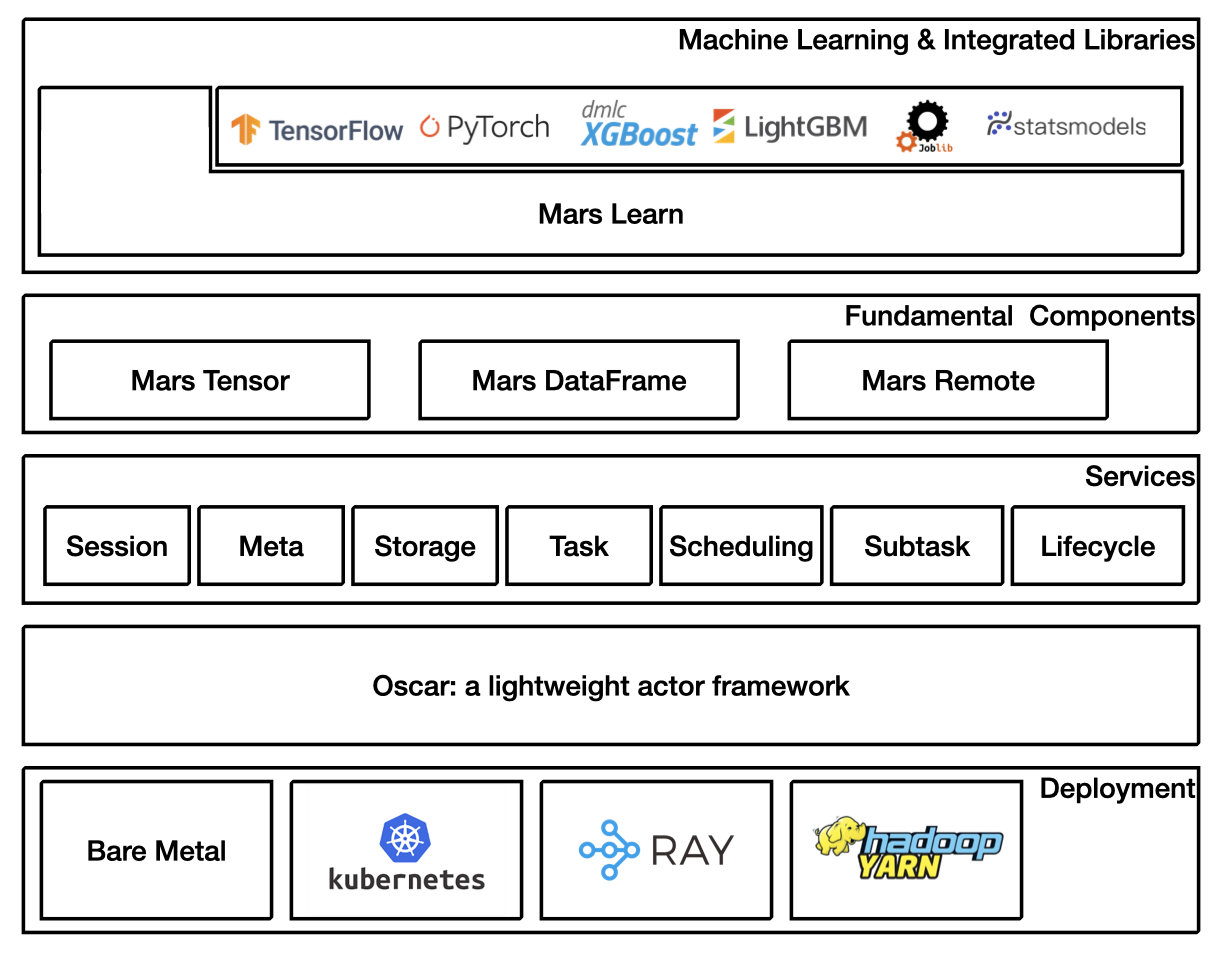
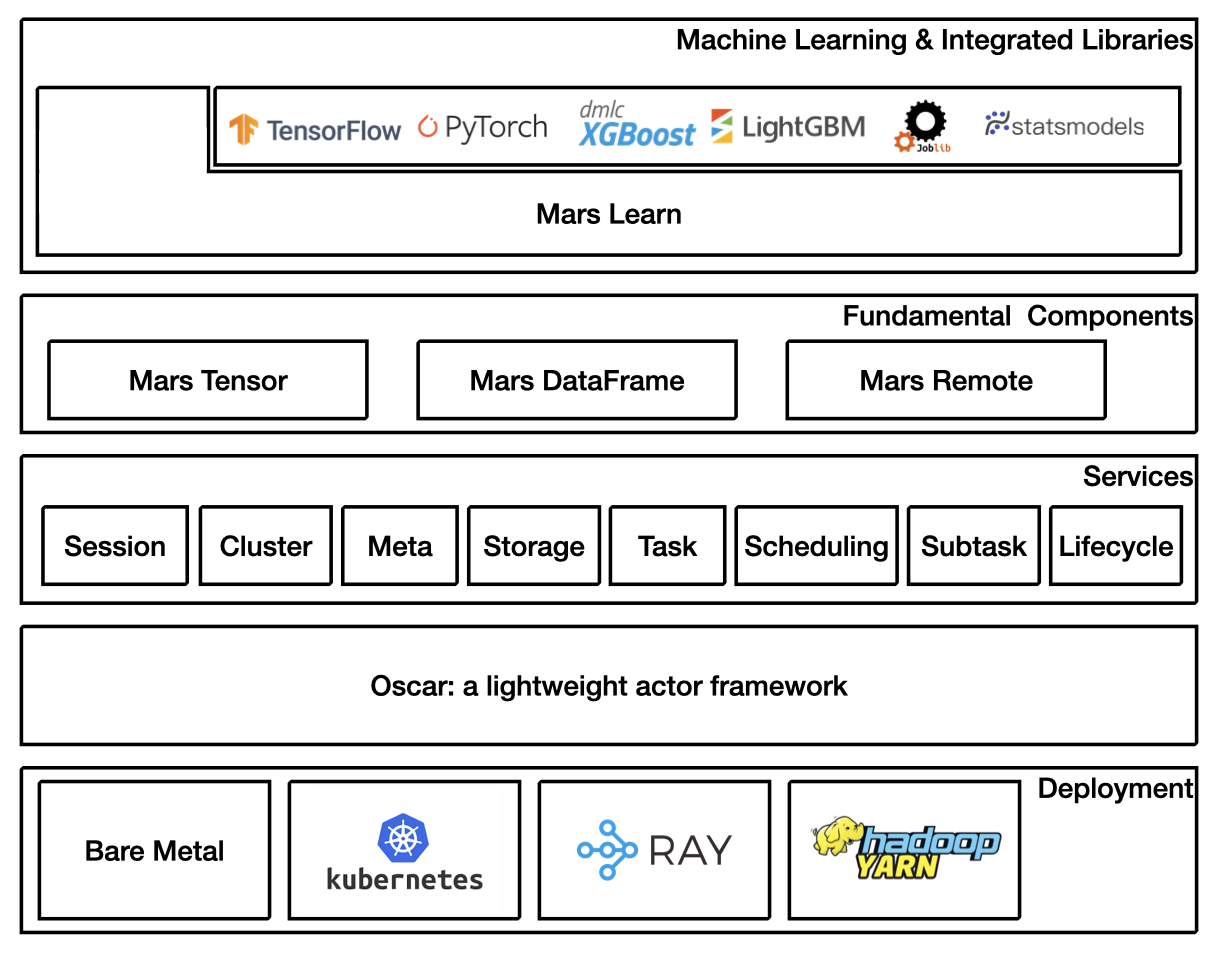
Add more docs

Changed region(s): [[0.0, 0.0304, 0.9984, 1.0], [0.2808, 0.6999, 0.7176, 0.7303]]

diff --git a/docs/source/development/overview.rst b/docs/source/development/overview.rst
@@ -1,0 +1,67 @@
+.. _dev_overview:
+
+Architecture
+============
+
+Main architecture is shown as below.
+
+.. image:: ../images/dev-intro.png
+
+This development guide will mainly focus on the part in the ret dot lines.
+
+Mars implements a lightweight actor framework called oscar,
+on top of it, the distributed execution layer is decoupled into
+a few services includes:
+
+1. Session service. Manage sessions. Each session is isolated,
+   the data in one session can not be seen from another session.
+2. Cluster service. Monitor entire cluster.
+3. Meta service. Store meta of Mars objects, like shape of tensor etc.
+4. Storage service. Data can be put and get from storage service,
+   functionalities like data spilling and data transfer between workers
+   are integrated in storage service as well.
+5. Task service. When user called ``.execute()`` method, a task will be
+   submitted to this service. Task service will try to tile a high-level
+   coarse-grained computational graph into a low-level fine-grained graph
+   in which each node in the graph is a subtask. This subtask graph will
+   be handed over to scheduling service.
+6. Scheduling service. Accept a subtask graph, and schedule the subtasks
+   to workers for execution according to many highly optimized scheduling strategies.
+7. Subtask service. Accept a subtask, execute them, then put data into storage,
+   record meta in meta service, report back result to task service.
+8. Lifecycle service. Each Mars objects as well as chunk owns a reference count
+   in lifecycle service, when reference count reaches 0, notify storage service to
+   remove data, and tell meta service to remove meta.
+
+Code Structure
+==============
+
+* core: internal data structures, like tileables, chunks, operands, graphs.
+* lib: libraries, e.g. filesystem, sparse.
+* oscar: actor framework.
+* deploy/oscar: local deploy.
+* deploy/kubernetes: deploy on Kubernetes.
+* deploy/yarn: deploy on yarn.
+* services: all services.
+* optimization: high-level and low-level optimization, e.g. fusion.
+* serialization: serialization based on pickle5 protocol.
+* storage: local storage backends, e.g. plasma, shared_memory, ray.
+
+Tour of Task
+============
+
+.. image:: ../images/tour-of-task.gif
+
+A task is consist of the following steps:
+
+1. When `.execute()` called on client side, a task that has a tileable graph
+   will be submitted to task service.
+2. Task service will optimize tileable graph first, a few rules will be applied,
+   e.g. column pruning. Tileable graph will then be tiled into chunk graph,
+   chunk graph will be optimized as well, e.g. fusion. Each node on the fused
+   chunk graph will be organized as a subtask, the subtask graph will be handed
+   over to scheduling service.
+3. Scheduling service schedules the subtasks according to a few highly optimized,
+   e.g. depth-first, locality-aware, scheduling policies. Subtasks will be submitted
+   to subtask service on workers for execution.
+4. A task will be finished until all subtasks have been accomplished.

diff --git a/docs/source/development/oscar/usage.rst b/docs/source/development/oscar/usage.rst
@@ -1,0 +1,88 @@
+.. _oscar_usage:
+
+Oscar APIs
+==========
+
+Actor Definition
+----------------
+
+.. code-block:: python
+
+    import mars.oscar as mo
+
+    # stateful actor, for stateless actor, inherit from mo.StatelessActor
+    class MyActor(mo.Actor):
+        def __init__(self, *args, **kwargs):
+            pass
+
+        async def __post_create__(self):
+            # called after created
+            pass
+
+        async def __pre_destroy__(self):
+            # called before destroy
+            pass
+
+        def method_a(self, arg_1, arg_2, **kw_1):  # user-defined function
+            pass
+
+        async def method_b(self, arg_1, arg_2, **kw_1)  # user-defined async function
+            pass
+
+
+Creating Actors
+---------------
+
+.. code-block:: python
+
+    import mars.oscar as mo
+
+    actor_ref = await mo.create_actor(
+        MyActor, 1, 2, a=1, b=2
+        address='<ip>:<port>', uid='UniqueActorName')
+
+
+Destroying Actors
+-----------------
+
+.. code-block:: python
+
+    import mars.oscar as mo
+
+    await mo.destroy_actor(actor_ref)
+    # or
+    await actor_ref.destroy()
+
+
+Checking Existence of Actors
+----------------------------
+
+.. code-block:: python
+
+    import mars.oscar as mo
+
+    await mo.has_actor(mo.ActorRef(worker_addr, actor_uid))
+
+
+Getting Actor Reference
+-----------------------
+
+.. code-block:: python
+
+    import mars.oscar as mo
+
+    actor_ref = await mo.actor_ref(worker_addr, actor_id)
+
+
+Calling Actor Method
+--------------------
+
+.. code-block:: python
+
+    # send
+    await actor_ref.method_a.send(1, 2, a=1, b=2)
+    # equivalent to actor_ref.method_a.send
+    await actor_ref.method_a(1, 2, a=1, b=2)
+    # tell
+    await actor_ref.method_a.tell(1, 2, a=1, b=2)
+

diff --git a/docs/source/development/oscar/internals.rst b/docs/source/development/oscar/internals.rst
@@ -1,0 +1,33 @@
+.. _oscar_internals:
+
+Oscar Internal
+==============
+
+Oscar supports multiple backends, including Mars itself as well as Ray.
+
+Mars backend
+------------
+
+For mars backend, when each worker started, main process and sub processes will be created,
+each process owns a event loop. Each process is called actor pool in Mars.
+
+.. image:: ../../images/oscar-mars.png
+
+Each actor can talk to another actor without considering if they are in a same process,
+or in a same machine, or even on different machines. The underlying communication will
+be achieved via an abstraction called channel.
+
+As illustrated in the picuture above, when each process is started,
+socket server will be created to accept channel connection
+from other workers, unix socket server is created to accept channel connection from other processes,
+and dummy server is used to accept channel connection from the same process.
+When a message sent from an actor to another actor, the corresponding channel will be used
+according to their locations.
+
+Ray backend
+-----------
+
+For Ray backend, Mars actor pool is created inside a Ray actor, the channel implemeneted via
+Ray call will be used for message passing between Mars actors.
+
+.. image:: ../../images/oscar-ray.png

diff --git a/docs/source/index.rst b/docs/source/index.rst
@@ -167,10 +167,10 @@ to process more data or gain a better performance.
 
 Mars can run in a few ways:
 
-- :ref:`Local thread-based scheduling <threaded>`
-- :ref:`Local process-basesd scheduling <local_cluster>`
+- :ref:`Local scheduling <local>`
 - :ref:`Run on cluster <deploy>`
 - :ref:`Run on Kubernetes <k8s>`
+- :ref:`Run on Yarn <mars_yarn>`
 
 .. toctree::
    :maxdepth: 2

diff --git a/docs/source/development/contributing.rst b/docs/source/development/contributing.rst
@@ -32,7 +32,6 @@ inside it:
     cd mars
     conda create -n mars-dev --file conda-spec.txt python=3.7
     source activate mars-dev
-    conda install -c conda-forge pyarrow tiledb-py
     pip install -e ".[dev]"
 
 Change ``3.7`` into the version of Python you want to install, and ``mars-dev``

diff --git a/docs/source/development/services/index.rst b/docs/source/development/services/index.rst
@@ -1,0 +1,15 @@
+.. _service_index:
+
+Mars distributed execution layer is consist of a few services.
+
+.. toctree::
+   :maxdepth: 2
+
+   session
+   cluster
+   meta
+   storage
+   task
+   scheduling
+   subtask
+   lifecycle

diff --git a/docs/source/development/services/lifecycle.rst b/docs/source/development/services/lifecycle.rst
@@ -1,0 +1,12 @@
+.. _lifecycle_service:
+
+Lifecycle Service
+=================
+
+.. currentmodule:: mars.services.lifecycle
+
+.. autosummary::
+   :toctree: generated/
+
+   LifecycleAPI
+   WebLifecycleAPI

diff --git a/docs/source/development/oscar/index.rst b/docs/source/development/oscar/index.rst
@@ -1,0 +1,10 @@
+.. _oscar_index:
+
+Oscar is a lightweight actor framework. It's the fundamental component
+for entire distributed layer.
+
+.. toctree::
+   :maxdepth: 2
+
+   usage
+   internals

diff --git a/docs/source/development/services/cluster.rst b/docs/source/development/services/cluster.rst
@@ -1,0 +1,12 @@
+.. _cluster_service:
+
+Cluster Service
+===============
+
+.. currentmodule:: mars.services.cluster
+
+.. autosummary::
+   :toctree: generated/
+
+   ClusterAPI
+   WebClusterAPI

diff --git a/docs/source/development/services/session.rst b/docs/source/development/services/session.rst
@@ -1,0 +1,12 @@
+.. _session_service:
+
+Session Service
+===============
+
+.. currentmodule:: mars.services.session
+
+.. autosummary::
+   :toctree: generated/
+
+   SessionAPI
+   WebSessionAPI

diff --git a/docs/source/development/services/storage.rst b/docs/source/development/services/storage.rst
@@ -1,0 +1,12 @@
+.. _storage_service:
+
+Storage Service
+===============
+
+.. currentmodule:: mars.services.storage
+
+.. autosummary::
+   :toctree: generated/
+
+   StorageAPI
+   WebStorageAPI

diff --git a/docs/source/development/services/scheduling.rst b/docs/source/development/services/scheduling.rst
@@ -1,0 +1,11 @@
+.. _scheduling_service:
+
+Scheduling Service
+==================
+
+.. currentmodule:: mars.services.scheduling
+
+.. autosummary::
+   :toctree: generated/
+
+   SchedulingAPI
